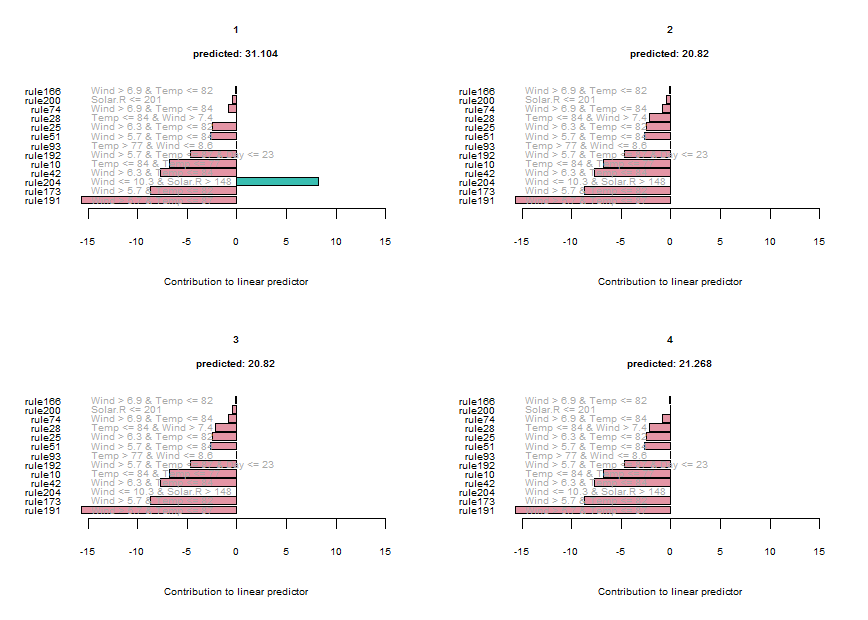
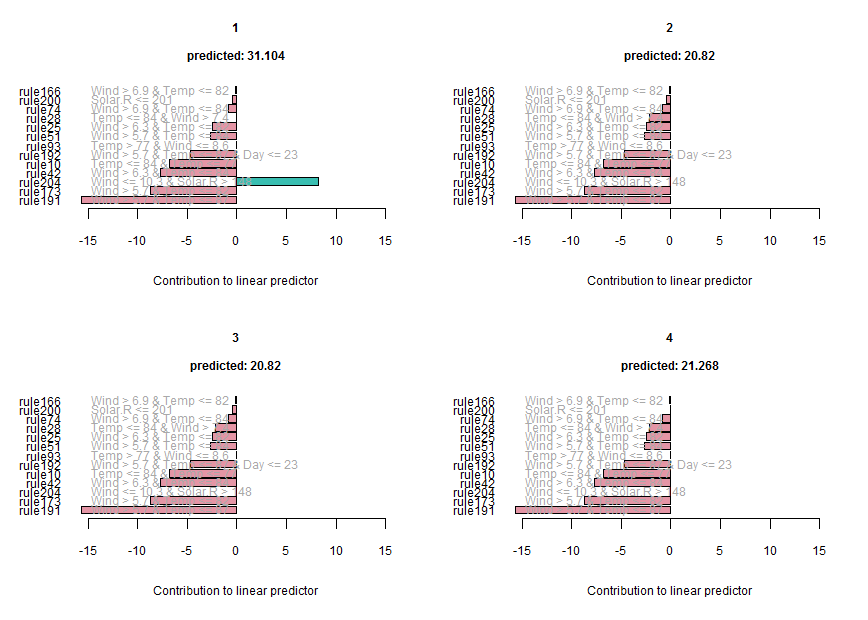
README updates

diff --git a/README.md b/README.md
@@ -122,38 +122,12 @@ If the final ensemble does not contain a lot of terms, inspecting individual rul
 We can obtain explanations of the predictions for individual observations using function `explain()`:
 
 ``` r
-explain(airq.ens, newdata = airq[1:4, ], cex = .8)
+expl <- explain(airq.ens, newdata = airq[1:4, ], cex = .7)
 ```
 
 ![](inst/README-figures/README-unnamed-chunk-10-1.png)
 
-    #> $predictors
-    #>   rule191 rule173 rule204 rule42 rule10 rule192 rule93 rule51 rule25
-    #> 1       1       1       1      1      1       1      0      1      1
-    #> 2       1       1       0      1      1       1      0      1      1
-    #> 3       1       1       0      1      1       1      0      1      1
-    #> 4       1       1       0      1      1       1      0      1      1
-    #>   rule28 rule74 rule200 rule166
-    #> 1      0      1       1       1
-    #> 2      1      1       1       1
-    #> 3      1      1       1       1
-    #> 4      1      1       0       1
-    #> 
-    #> $contribution
-    #>                   1           2           3           4
-    #> rule191 -15.6401487 -15.6401487 -15.6401487 -15.6401487
-    #> rule173  -8.6645924  -8.6645924  -8.6645924  -8.6645924
-    #> rule204   8.1715564   0.0000000   0.0000000   0.0000000
-    #> rule42   -7.6928586  -7.6928586  -7.6928586  -7.6928586
-    #> rule10   -6.8032890  -6.8032890  -6.8032890  -6.8032890
-    #> rule192  -4.6926624  -4.6926624  -4.6926624  -4.6926624
-    #> rule93    0.0000000   0.0000000   0.0000000   0.0000000
-    #> rule51   -2.6981570  -2.6981570  -2.6981570  -2.6981570
-    #> rule25   -2.4481192  -2.4481192  -2.4481192  -2.4481192
-    #> rule28    0.0000000  -2.1119330  -2.1119330  -2.1119330
-    #> rule74   -0.8276940  -0.8276940  -0.8276940  -0.8276940
-    #> rule200  -0.4479854  -0.4479854  -0.4479854   0.0000000
-    #> rule166  -0.1202175  -0.1202175  -0.1202175  -0.1202175
+The values of the rules and linear terms for each observations are saved in `expl$predictors` and the contributions in `expl$contribution`.
 
 We can assess the expected prediction error of the prediction rule ensemble through cross validation (10-fold, by default) using the `cvpre()` function:
 
